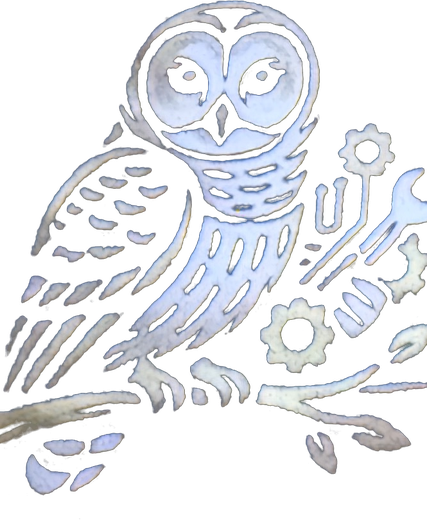
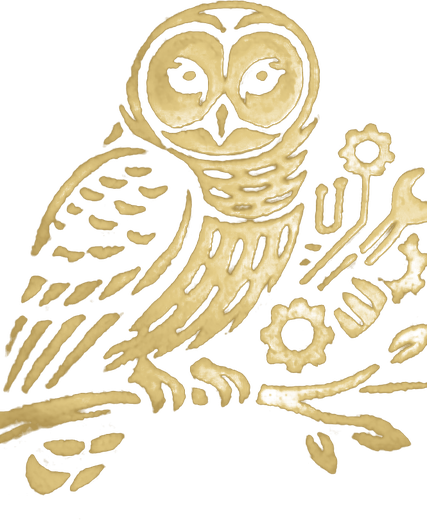
feat: recolor brand owl to gold-on-navy (site palette)
The static owl was pale blue on white; the brand is navy+gold. New
assets/owl.png is the same business-card artwork mapped onto the
site's gold tokens with a transparent background (the navy page shows
through), and assets/favicon.png is the gold owl on a navy tile.
Reproducible via tools/recolor_owl.py; the original blue artwork
stays in git history. Version 1.3.2.

diff --git a/main.js b/main.js
@@ -11,7 +11,7 @@
  * alias once one is set up. No phone number is included by request.
  */
 const CONFIG = Object.freeze({
-  version: "1.3.1",
+  version: "1.3.2",
   company: "Bard Technical Solutions LLC",
   tagline: "Innovative IT · Engineering · Cybersecurity",
   contact: {

diff --git a/tools/recolor_owl.py b/tools/recolor_owl.py
@@ -1,0 +1,93 @@
+"""Recolor the brand owl to gold-on-navy (site palette).
+
+The source artwork (assets/owl.png) was a pale-blue stencil drawing on
+white. This maps it onto the site's gold tokens so the mark reads
+gold-on-blue everywhere it appears:
+
+- assets/owl.png    -> gold owl, transparent background (the navy page
+                       shows through, including the stencil gaps).
+- assets/favicon.png -> the same gold owl on a solid navy rounded
+                        square, so the tab icon is gold-on-blue on any
+                        browser chrome.
+
+Run from the repo root:  python3 tools/recolor_owl.py <source-owl.png>
+(idempotent given the same source; keep an untouched copy of the
+original artwork as the argument, not a previously recolored output)
+"""
+
+import sys
+from pathlib import Path
+
+from PIL import Image, ImageDraw
+
+# Site palette (styles.css tokens)
+NAVY_900 = (10, 16, 32)  # --navy-900, page background
+GOLD_LIGHT = (243, 220, 150)  # highlight end of ramp (near --gold-300)
+GOLD_DARK = (122, 90, 28)  # shadow/line end of ramp (near --gold-600)
+
+# Alpha ramp: how far from white a source pixel must be to count as
+# part of the owl. Below LO -> background (transparent); above HI ->
+# fully opaque; between -> antialiased edge.
+INK_LO = 0.06
+INK_HI = 0.20
+
+
+def smoothstep(lo: float, hi: float, x: float) -> float:
+    t = max(0.0, min(1.0, (x - lo) / (hi - lo)))
+    return t * t * (3 - 2 * t)
+
+
+def recolor_to_gold(src: Image.Image) -> Image.Image:
+    """Gold owl on transparent background, shading kept via luminance."""
+    src = src.convert("RGBA")
+    w, h = src.size
+    out = Image.new("RGBA", (w, h), (0, 0, 0, 0))
+    spx, opx = src.load(), out.load()
+    for y in range(h):
+        for x in range(w):
+            r, g, b, a = spx[x, y]
+            ink = max(255 - r, 255 - g, 255 - b) / 255
+            alpha = round(smoothstep(INK_LO, INK_HI, ink) * a)
+            if alpha == 0:
+                continue
+            lum = (0.299 * r + 0.587 * g + 0.114 * b) / 255
+            c = tuple(
+                round(GOLD_DARK[i] + (GOLD_LIGHT[i] - GOLD_DARK[i]) * lum)
+                for i in range(3)
+            )
+            opx[x, y] = (*c, alpha)
+    return out
+
+
+def on_navy_tile(owl: Image.Image, size: int, pad_frac: float = 0.10) -> Image.Image:
+    """Favicon: gold owl centered on a navy rounded square."""
+    tile = Image.new("RGBA", (size, size), (0, 0, 0, 0))
+    draw = ImageDraw.Draw(tile)
+    draw.rounded_rectangle([0, 0, size - 1, size - 1], radius=size // 6, fill=(*NAVY_900, 255))
+    pad = round(size * pad_frac)
+    box = size - 2 * pad
+    fitted = owl.copy()
+    fitted.thumbnail((box, box), Image.LANCZOS)
+    tile.alpha_composite(
+        fitted, ((size - fitted.width) // 2, (size - fitted.height) // 2)
+    )
+    return tile
+
+
+def main() -> None:
+    if len(sys.argv) != 2:
+        sys.exit("usage: python3 tools/recolor_owl.py <source-owl.png>")
+    source = Path(sys.argv[1])
+    if not source.is_file():
+        sys.exit(f"source not found: {source}")
+    assets = Path(__file__).resolve().parent.parent / "assets"
+
+    gold = recolor_to_gold(Image.open(source))
+    gold.save(assets / "owl.png")
+    on_navy_tile(gold, 256).save(assets / "favicon.png")
+    print(f"wrote {assets / 'owl.png'} ({gold.size[0]}x{gold.size[1]})")
+    print(f"wrote {assets / 'favicon.png'} (256x256, navy tile)")
+
+
+if __name__ == "__main__":
+    main()